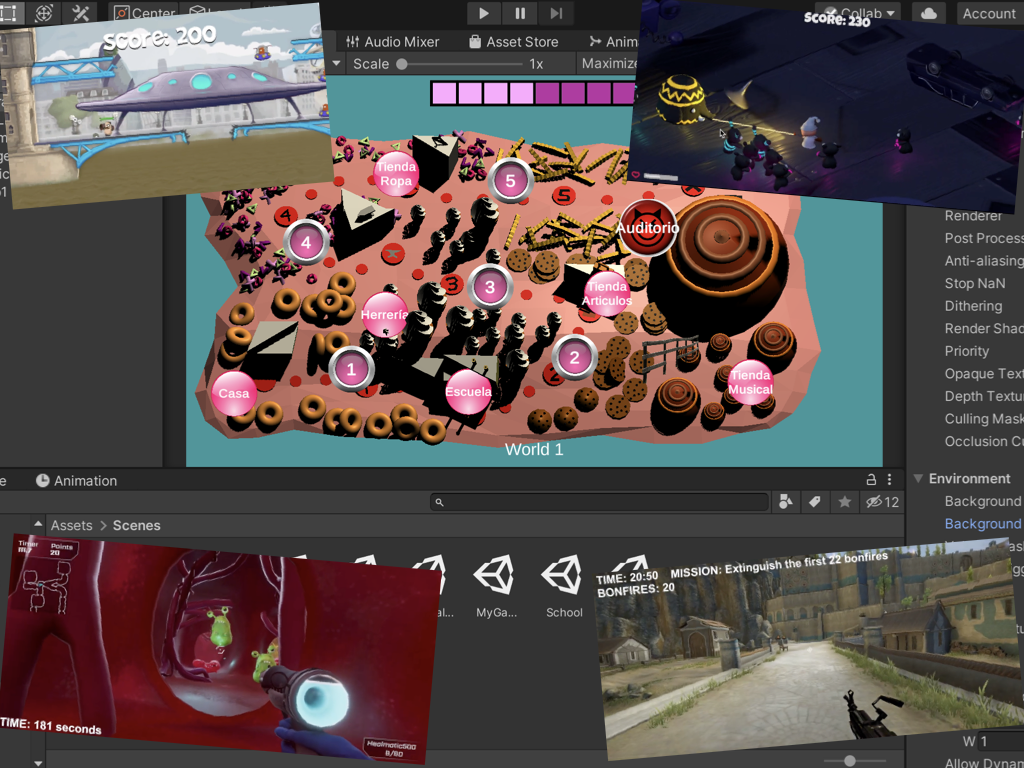
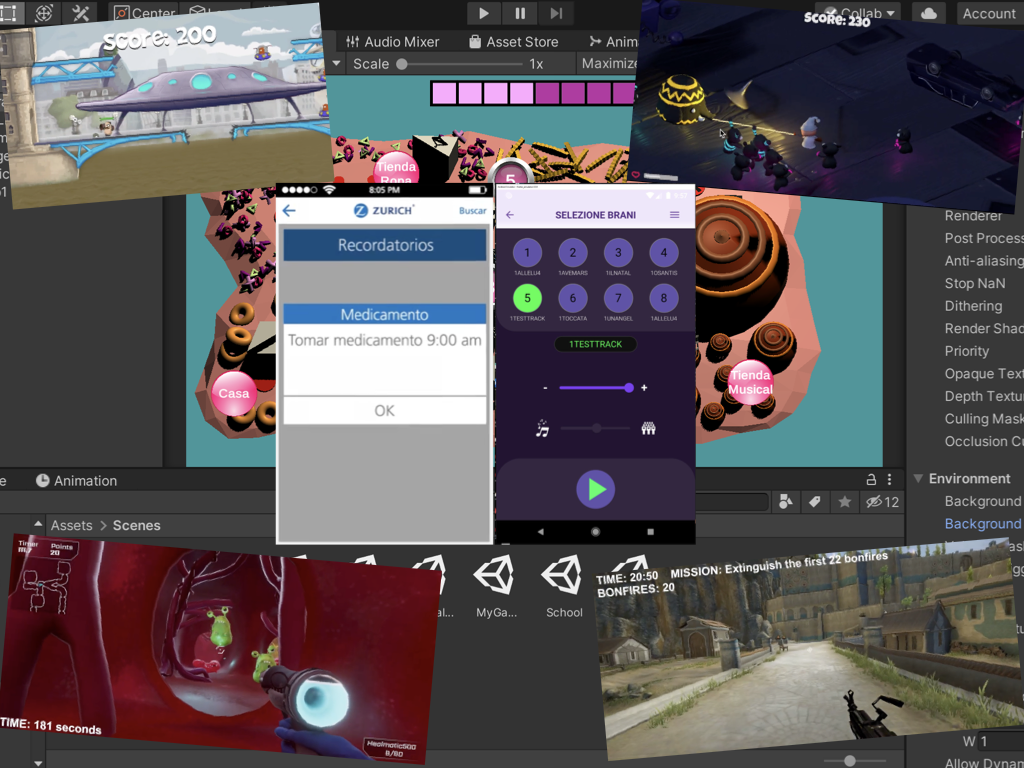
images updated, mix master minigame image added

Changed region(s): [[0.25, 0.2188, 0.6875, 0.7188]]

diff --git a/index.html b/index.html
@@ -387,17 +387,18 @@
             <p id="project-description">Mix Master is an educational game for Android & iOS that teaches audio-mixing concepts through an interactive simulation of a mixing console, multiple tracks, and effect controls within the capabilities of the FMOD integration.
                 My role began in technical sound design and expanded into gameplay programming, UI, shaders, and other systems.</p>
                 <div class="mixmaster-reel" id="mixmaster-reel" aria-label="Mix Master screenshots slideshow">
-              <img class="mixmaster-reel-image" id="mixmaster-reel-image" src="images/design/mixmaster1.png" alt="Mix Master screenshot 1 of 5">
+              <img class="mixmaster-reel-image" id="mixmaster-reel-image" src="images/design/mixmaster1.png" alt="Mix Master screenshot 1 of 6">
               <button class="mixmaster-reel-control mixmaster-reel-prev" id="mixmaster-reel-prev" type="button" aria-label="Previous Mix Master image">‹</button>
               <button class="mixmaster-reel-control mixmaster-reel-next" id="mixmaster-reel-next" type="button" aria-label="Next Mix Master image">›</button>
               <div class="mixmaster-reel-footer">
-                <span class="mixmaster-reel-caption" id="mixmaster-reel-caption">IMAGE 01 / 05</span>
+                <span class="mixmaster-reel-caption" id="mixmaster-reel-caption">IMAGE 01 / 06</span>
                 <div class="mixmaster-reel-dots" id="mixmaster-reel-dots" aria-label="Choose Mix Master image">
                   <button class="mixmaster-reel-dot is-active" type="button" data-mixmaster-image="0" aria-label="Show image 1" aria-current="true"></button>
                   <button class="mixmaster-reel-dot" type="button" data-mixmaster-image="1" aria-label="Show image 2"></button>
                   <button class="mixmaster-reel-dot" type="button" data-mixmaster-image="2" aria-label="Show image 3"></button>
                   <button class="mixmaster-reel-dot" type="button" data-mixmaster-image="3" aria-label="Show image 4"></button>
                   <button class="mixmaster-reel-dot" type="button" data-mixmaster-image="4" aria-label="Show image 5"></button>
+                  <button class="mixmaster-reel-dot" type="button" data-mixmaster-image="5" aria-label="Show image 6"></button>
                 </div>
               </div>
             </div>
